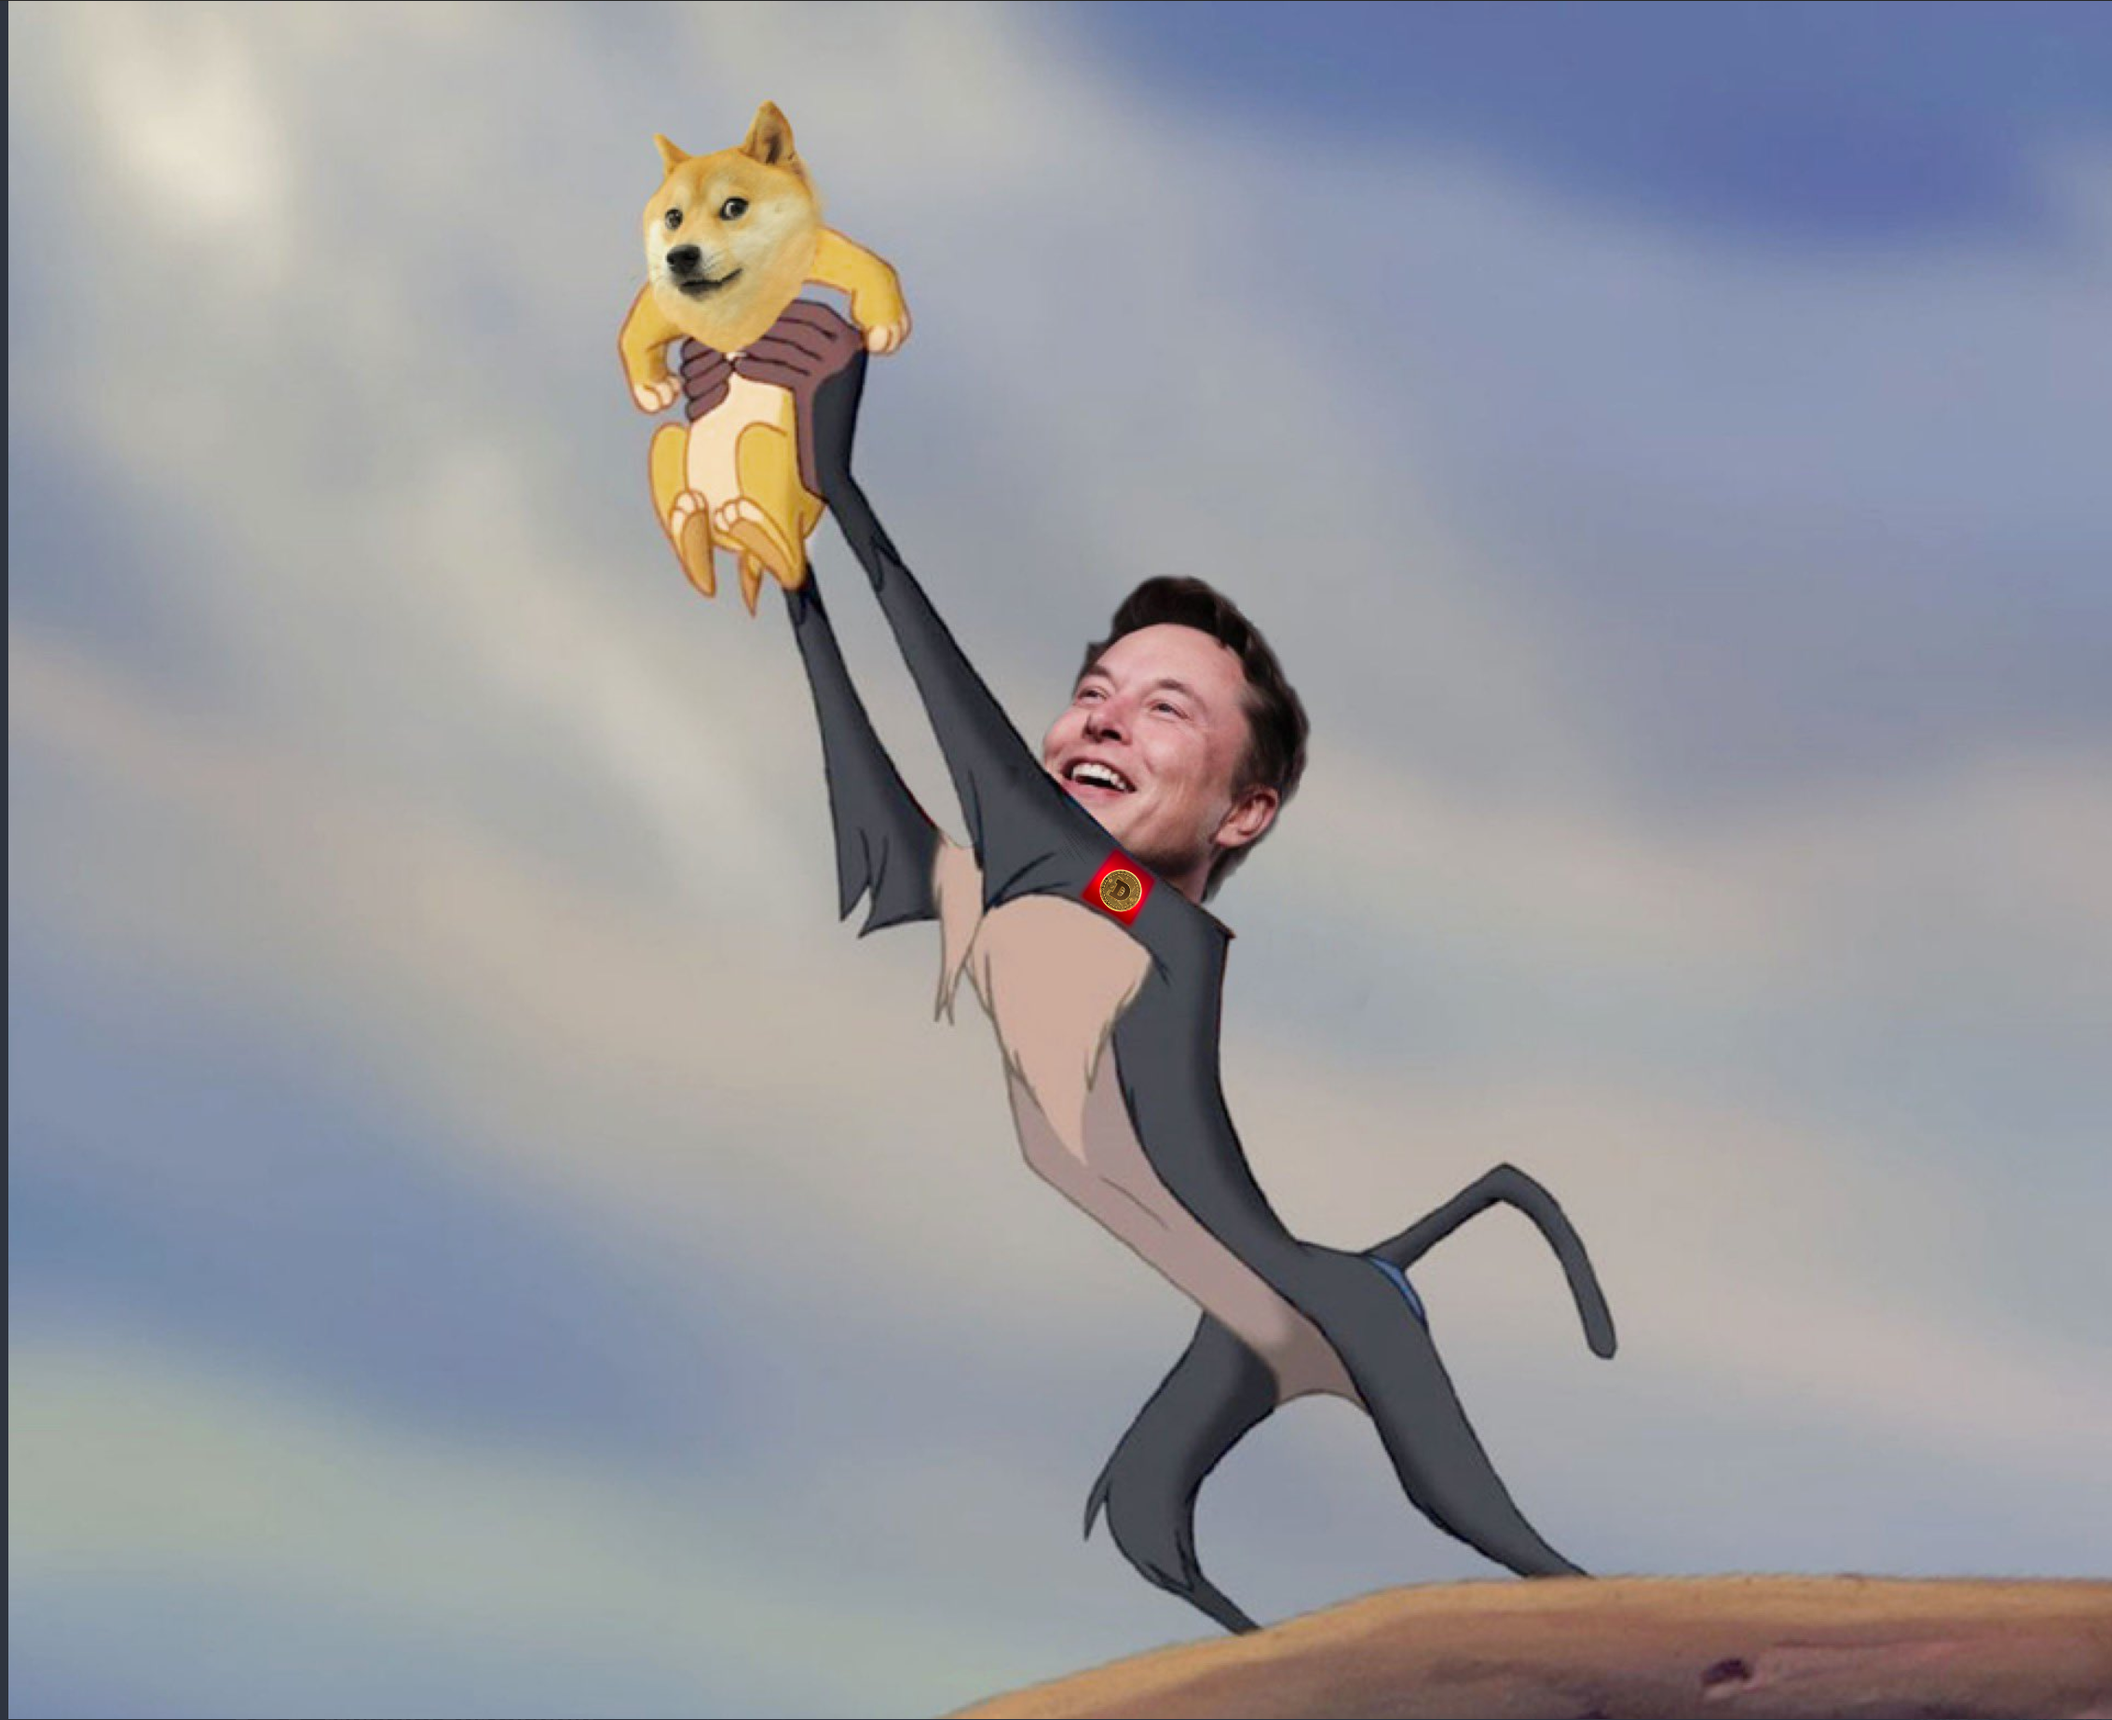
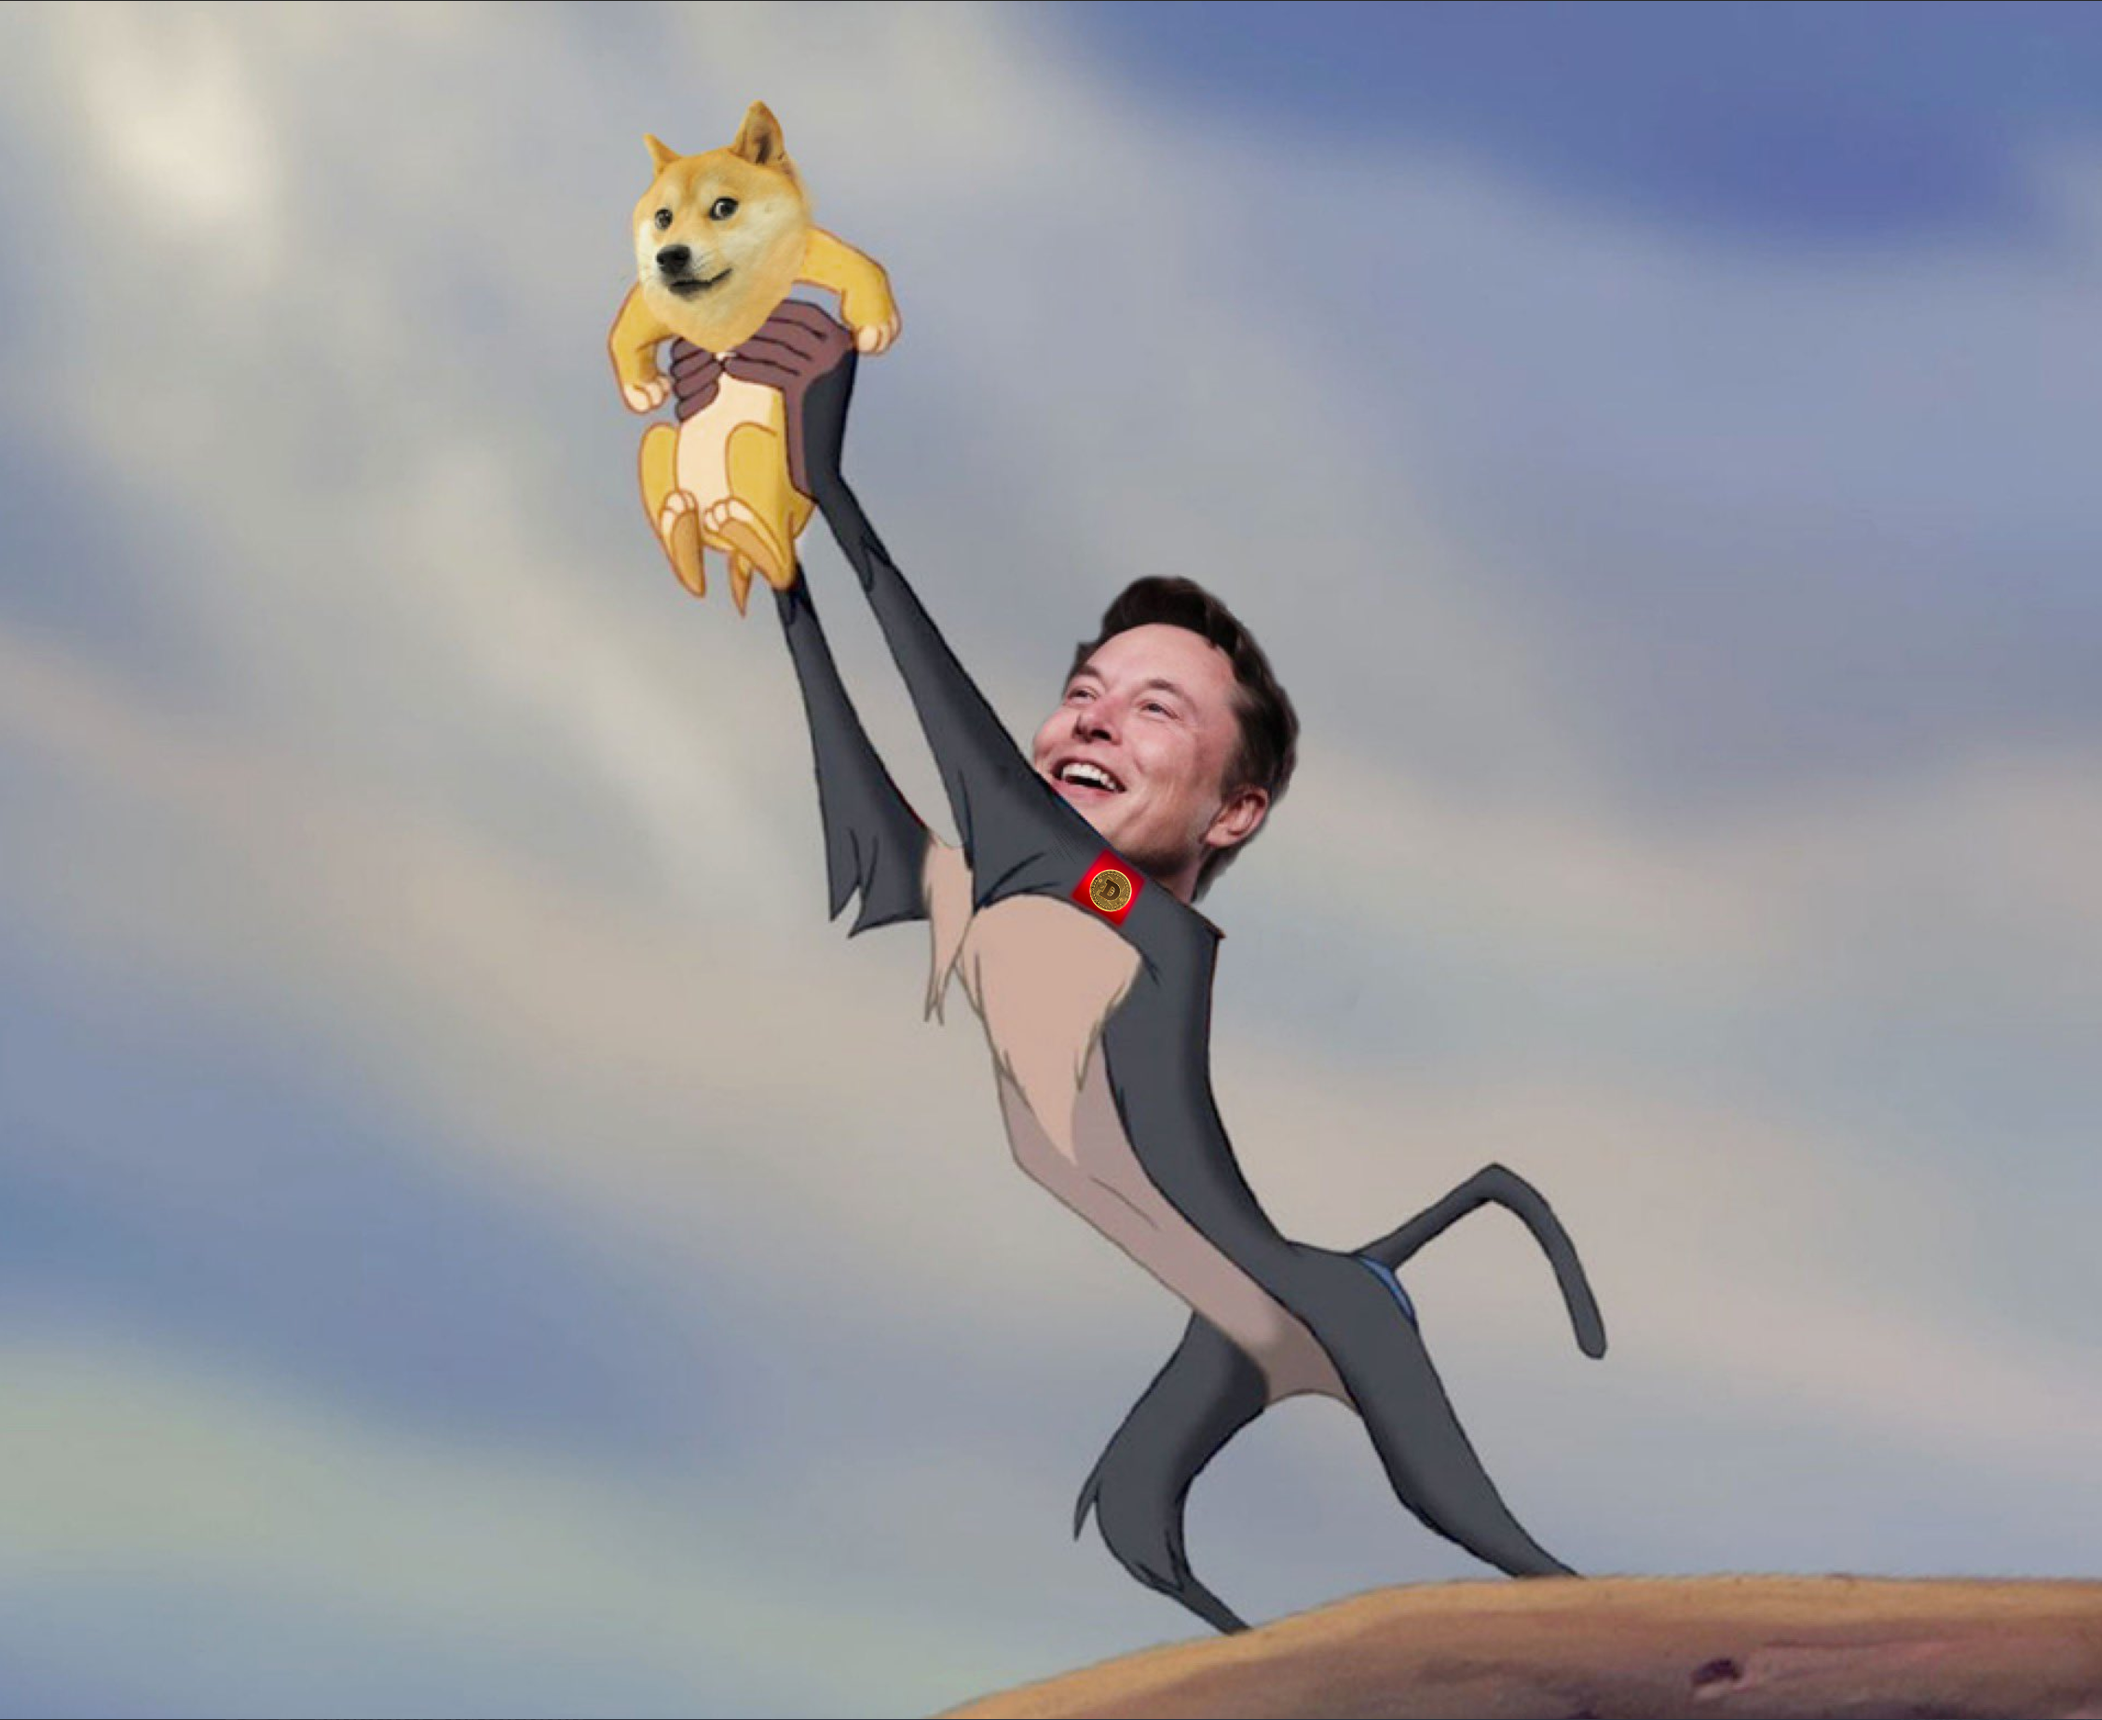
added footer, fixed doge.png left border

diff --git a/code/getDatas.js b/code/getDatas.js
@@ -17,7 +17,8 @@ var data = {
         "title": "The Bitcoin Blockchain",
         "text": "An info"
       }
-    ]
+    ],
+    "footerContent": "<a href=\"downloadpeg\">bitcoin core download</a>"
   },
   "eth": {
     "name": "Ether",
@@ -37,7 +38,8 @@ var data = {
         "title": "The Bitcoin Blockchain",
         "text": "An info"
       }
-    ]
+    ],
+    "footerContent": "<a href=\"downloadpeg\">bitcoin core download</a>"
   },
   "xrp": {
     "name": "XRP (Ripple)",
@@ -57,7 +59,8 @@ var data = {
         "title": "The Bitcoin Blockchain",
         "text": "An info"
       }
-    ]
+    ],
+    "footerContent": "<a href=\"downloadpeg\">bitcoin core download</a>"
   },
   "doge": {
     "name": "Dogecoin",
@@ -77,7 +80,8 @@ var data = {
         "title": "The Bitcoin Blockchain",
         "text": "An info"
       }
-    ]
+    ],
+    "footerContent": "<a href=\"downloadpeg\">bitcoin core download</a>"
   }
 }
 function getParameterByName(name, url = window.location.href) {
@@ -112,5 +116,6 @@ window.addEventListener('load', function () {
 
   document.getElementById("cryptoName").innerHTML = data[cur].name;
   document.getElementsByTagName("title")[0].innerHTML = data[cur].name + " - THE CRYPTOs";
-  document.getElementsByTagName("body")[0].style.backgroundImage = "url(\"images/" + cur + ".png\")"
+  document.getElementsByTagName("body")[0].style.backgroundImage = "url(\"images/" + cur + ".png\")";
+  document.getElementById("footer").innerHTML = data[cur].footerContent;
 })

diff --git a/template.html b/template.html
@@ -92,5 +92,9 @@
       <h2>The <div>[Cryptocurrency]</div> Block chain</h2>
       <p>[about crypto blcok chain, including size, about mining and other stuffs]</p>
     </div>
+    <footer>
+      <p>Author: Martin and Jashan</p>
+      <p id="footer"></p>
+    </footer>
   </body>
 </html>

diff --git a/code/style.css b/code/style.css
@@ -128,3 +128,12 @@ h2 {
   border-width: thick;
   border-color: grey;
 }
+
+footer {
+  text-align: center;
+  background-color: rgba(30, 30, 70, 0.8);
+  color: rgb(255, 255, 200);;
+  position: absolute;
+  bottom: 0;
+  width: 100%;
+}
